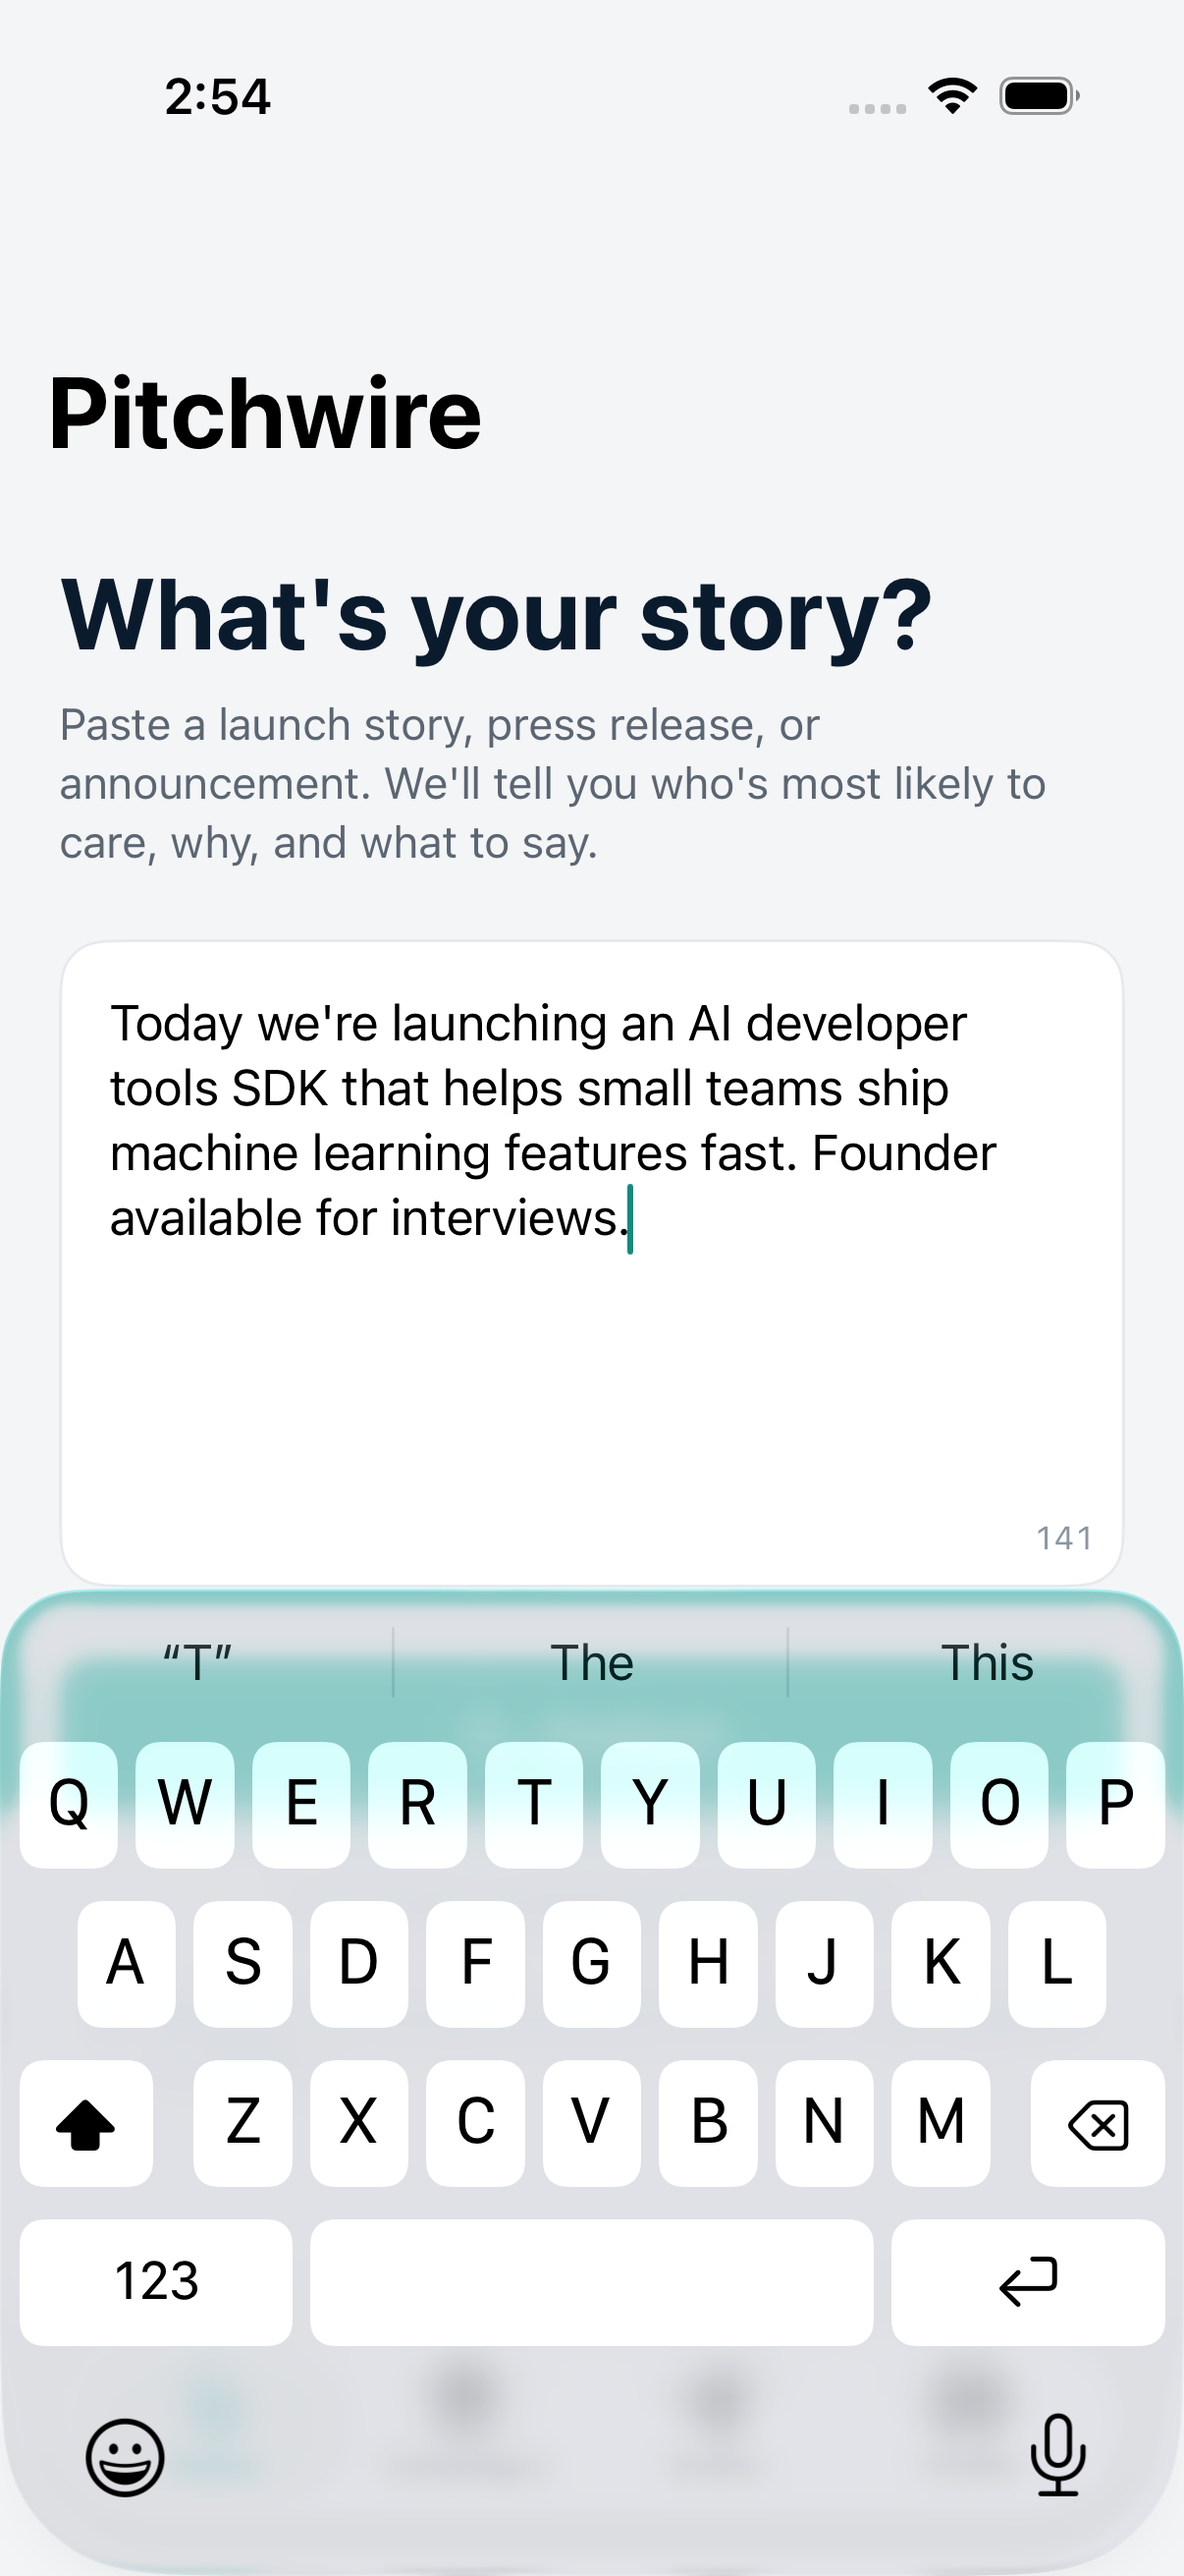
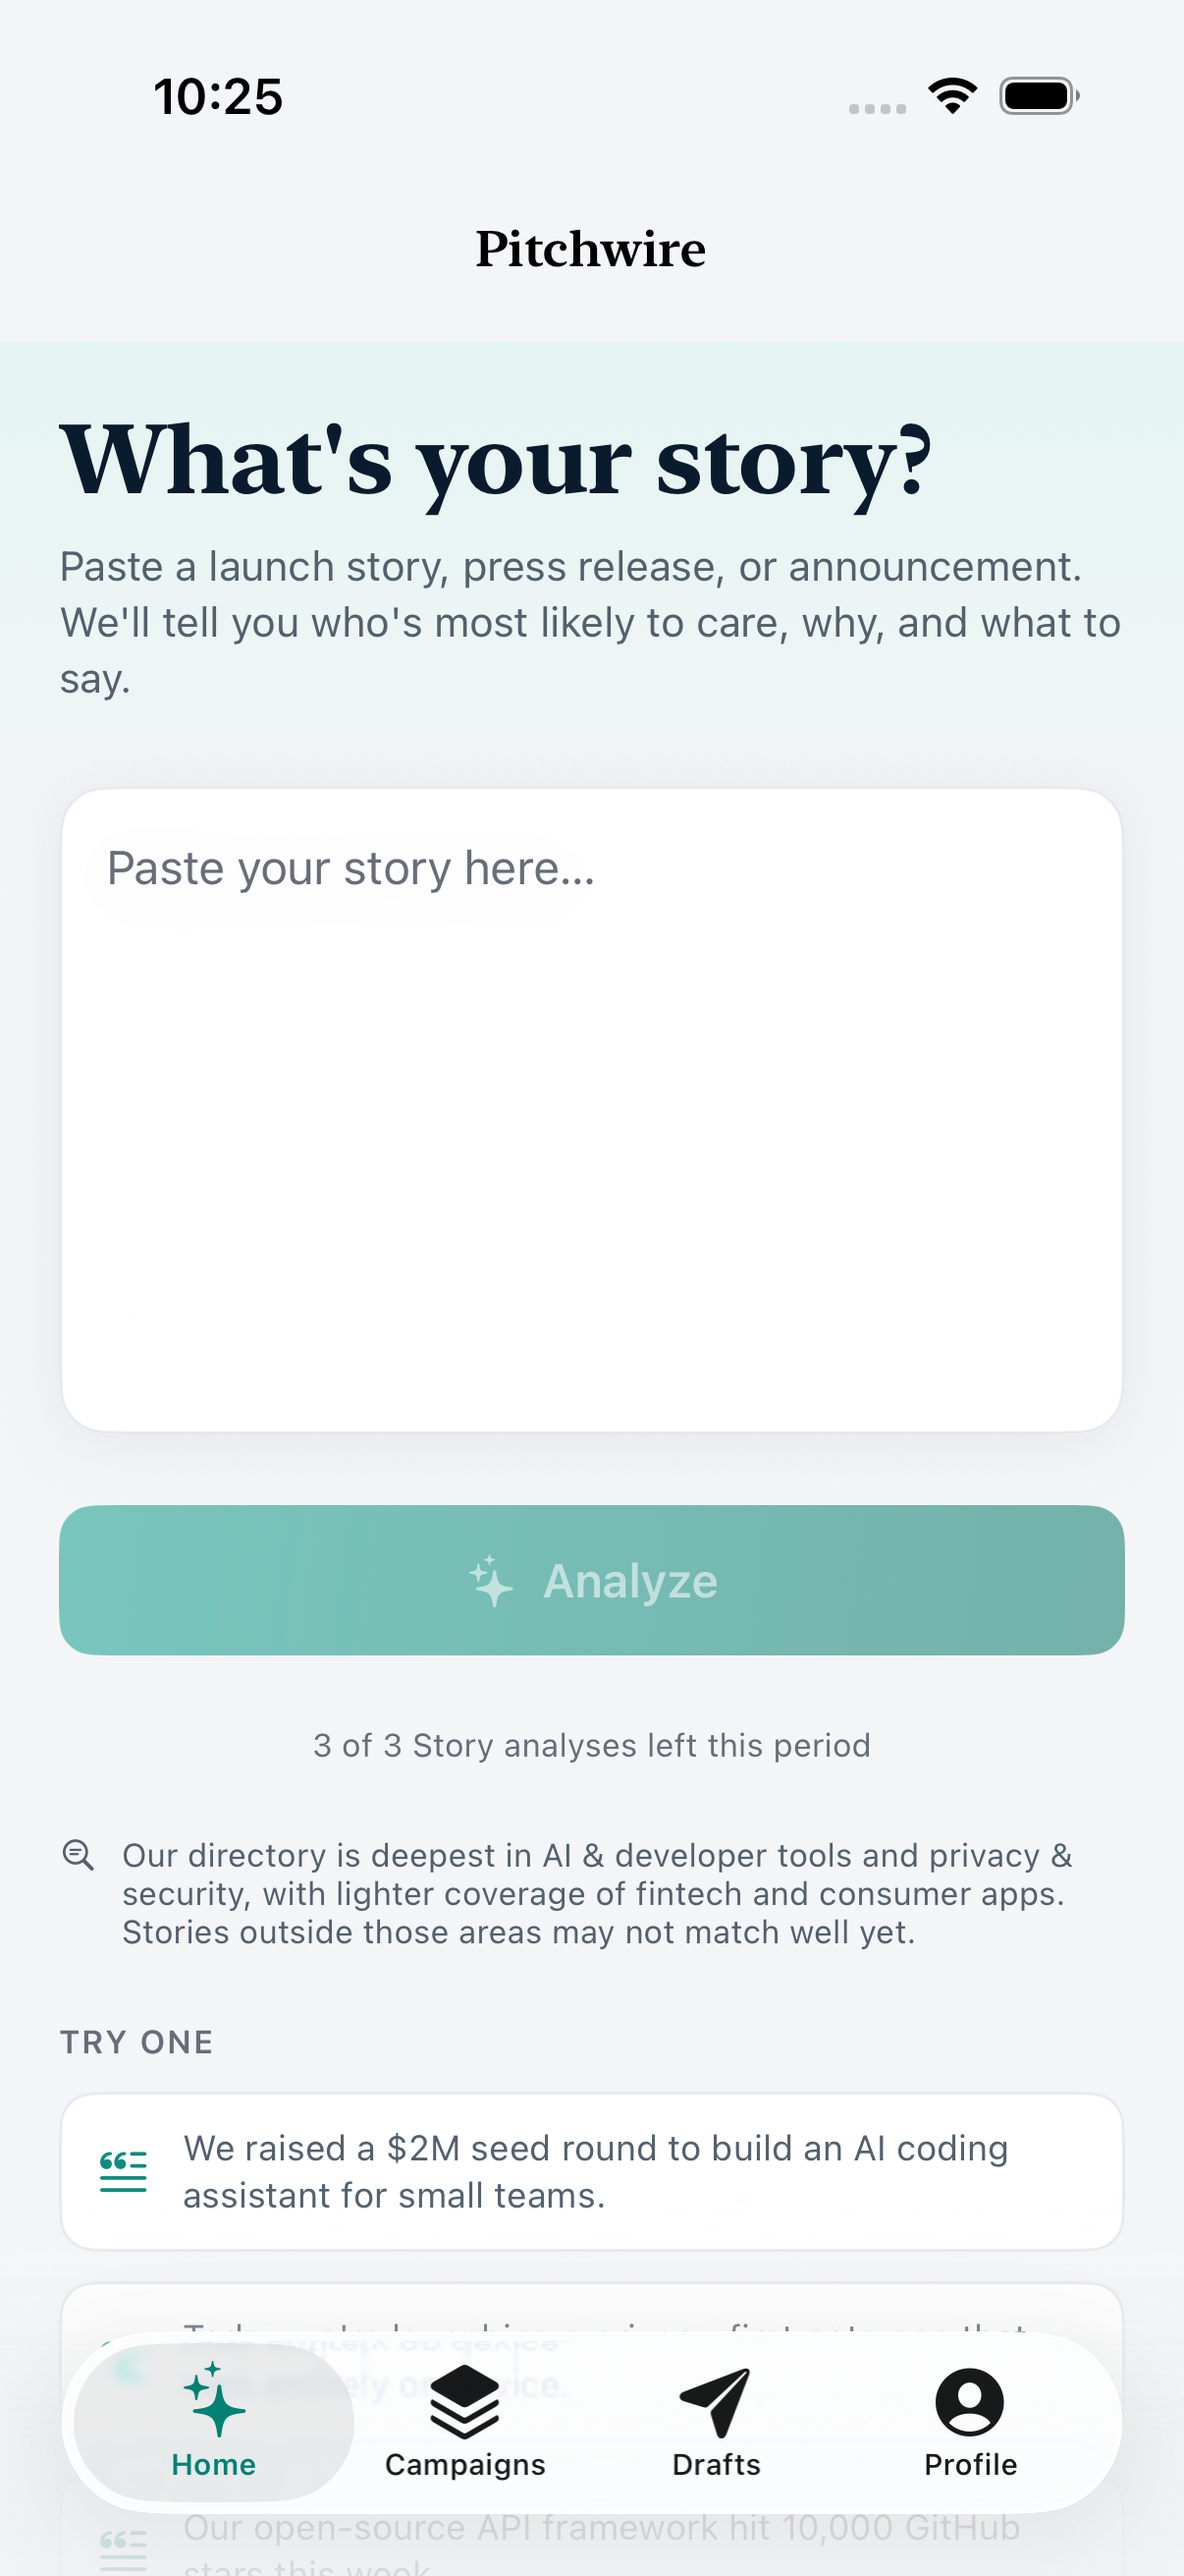
Screenshots: recapture on the redesigned UI, with a demo directory
- EditorialSeedLoader honours -uitest-demo-directory (DEBUG): forces the
  fictional SampleJournalists pool so captures and walkthroughs never
  show the real verified journalists from editorial_seed.json.
- CoreLoopUITests runs with it, and snaps the home screen at rest
  (no keyboard) instead of mid-type.
- All 8 reference screenshots refreshed on the serif / card-depth /
  gradient design; 03 & 04 now show fictional demo profiles.

Claude-Session: https://claude.ai/code/session_013ymha6n2L9SfifjYS1iGM9

diff --git a/Pitchwire/UITests/CoreLoopUITests.swift b/Pitchwire/UITests/CoreLoopUITests.swift
@@ -19,11 +19,14 @@ final class CoreLoopUITests: XCTestCase {
 
     func testAnalyzeToDraftLoop() {
         let app = XCUIApplication()
-        app.launchArguments = ["-uitest-reset", "-uitest-mock-ai"]   // fresh store + entitlement counters
+        // fresh store + entitlement counters; fictional directory so the
+        // captured screenshots never show real journalists.
+        app.launchArguments = ["-uitest-reset", "-uitest-mock-ai", "-uitest-demo-directory"]
         app.launch()
 
-        // Home intake
+        // Home intake — capture the composer at rest (no keyboard) for the shot.
         XCTAssertTrue(app.staticTexts["What's your story?"].waitForExistence(timeout: 5))
+        snap(app, "01-home-intake")
 
         let editor = app.textViews.firstMatch
         XCTAssertTrue(editor.waitForExistence(timeout: 5))
@@ -33,7 +36,6 @@ final class CoreLoopUITests: XCTestCase {
             + "ship machine learning features fast. Founder available for interviews."
         )
 
-        snap(app, "01-home-intake")
         app.buttons["Analyze"].tap()
 
         // Screen 2 — confirm understanding, then proceed

diff --git a/Pitchwire/Sources/Data/EditorialSeedLoader.swift b/Pitchwire/Sources/Data/EditorialSeedLoader.swift
@@ -12,7 +12,14 @@ enum EditorialSeedLoader {
     /// The pool the matcher scores against. Real candidates when present, else
     /// fictional demo profiles.
     static func seedPool() -> [JournalistProfile] {
-        (try? load()) ?? SampleJournalists.seedPool()
+        #if DEBUG
+        // Screenshot / demo builds force the fictional pool so captures and
+        // walkthroughs never show real journalists (`-uitest-demo-directory`).
+        if ProcessInfo.processInfo.arguments.contains("-uitest-demo-directory") {
+            return SampleJournalists.seedPool()
+        }
+        #endif
+        return (try? load()) ?? SampleJournalists.seedPool()
     }
 
     /// `true` when a real seed file is bundled (used to pick honest UI copy).
